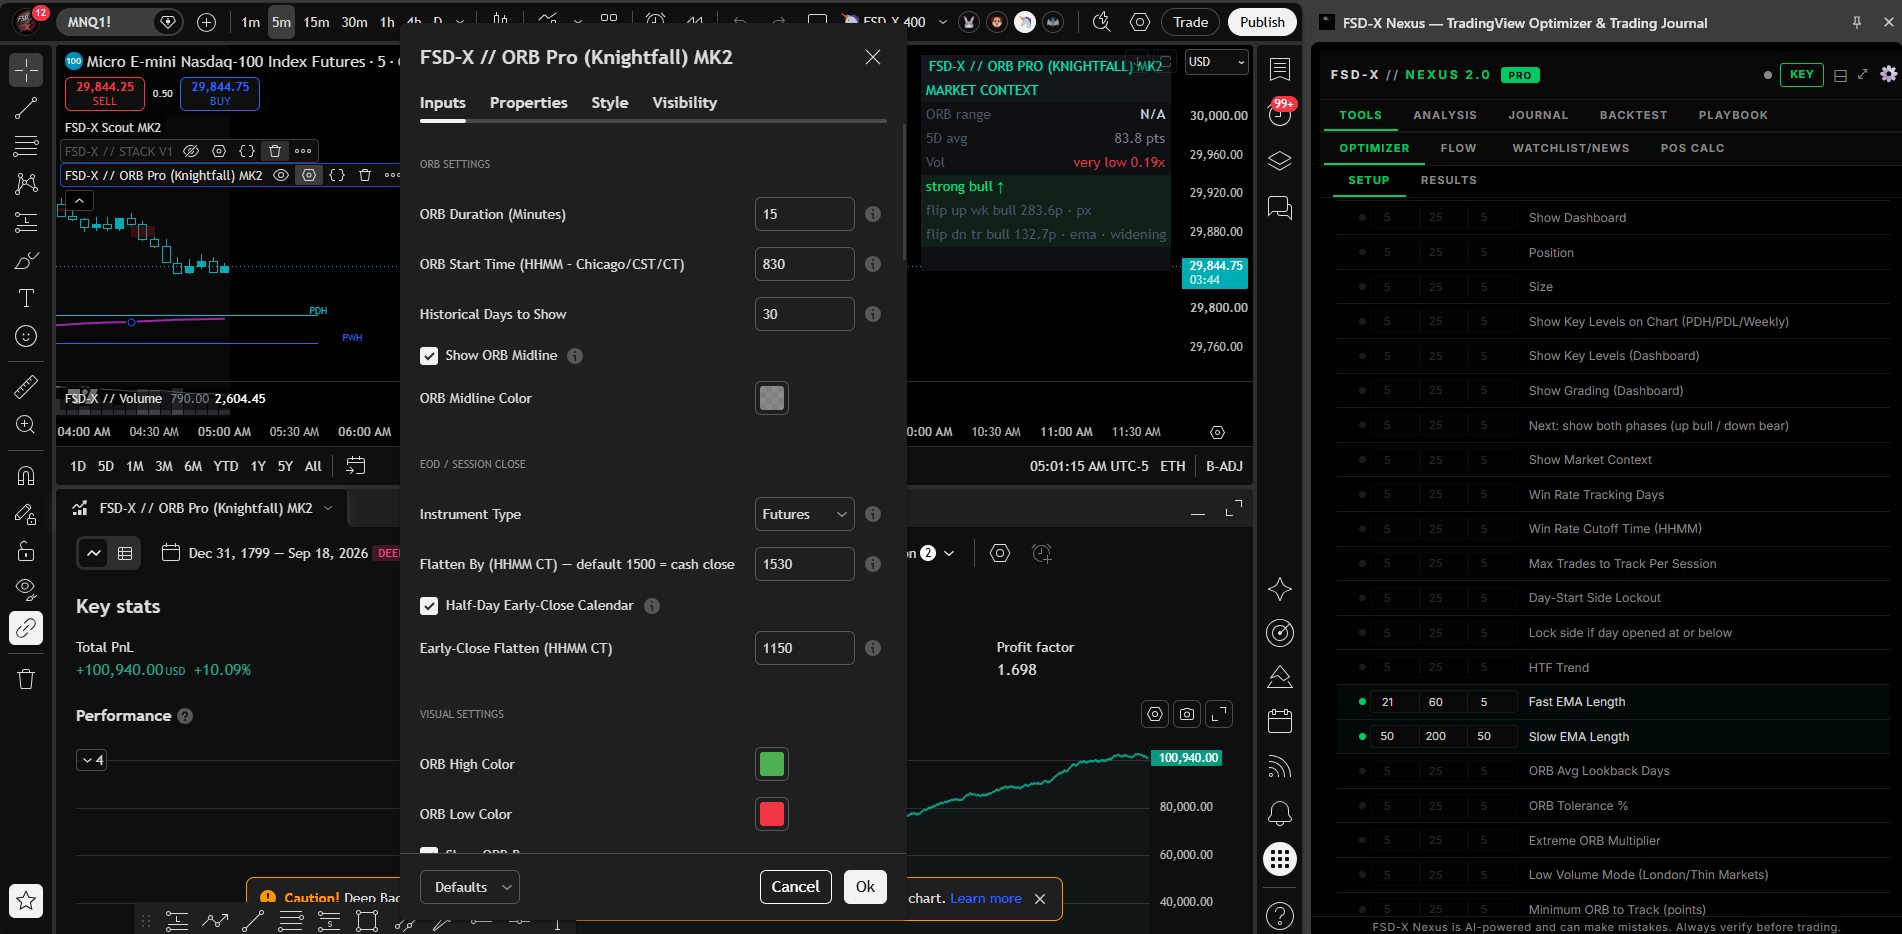
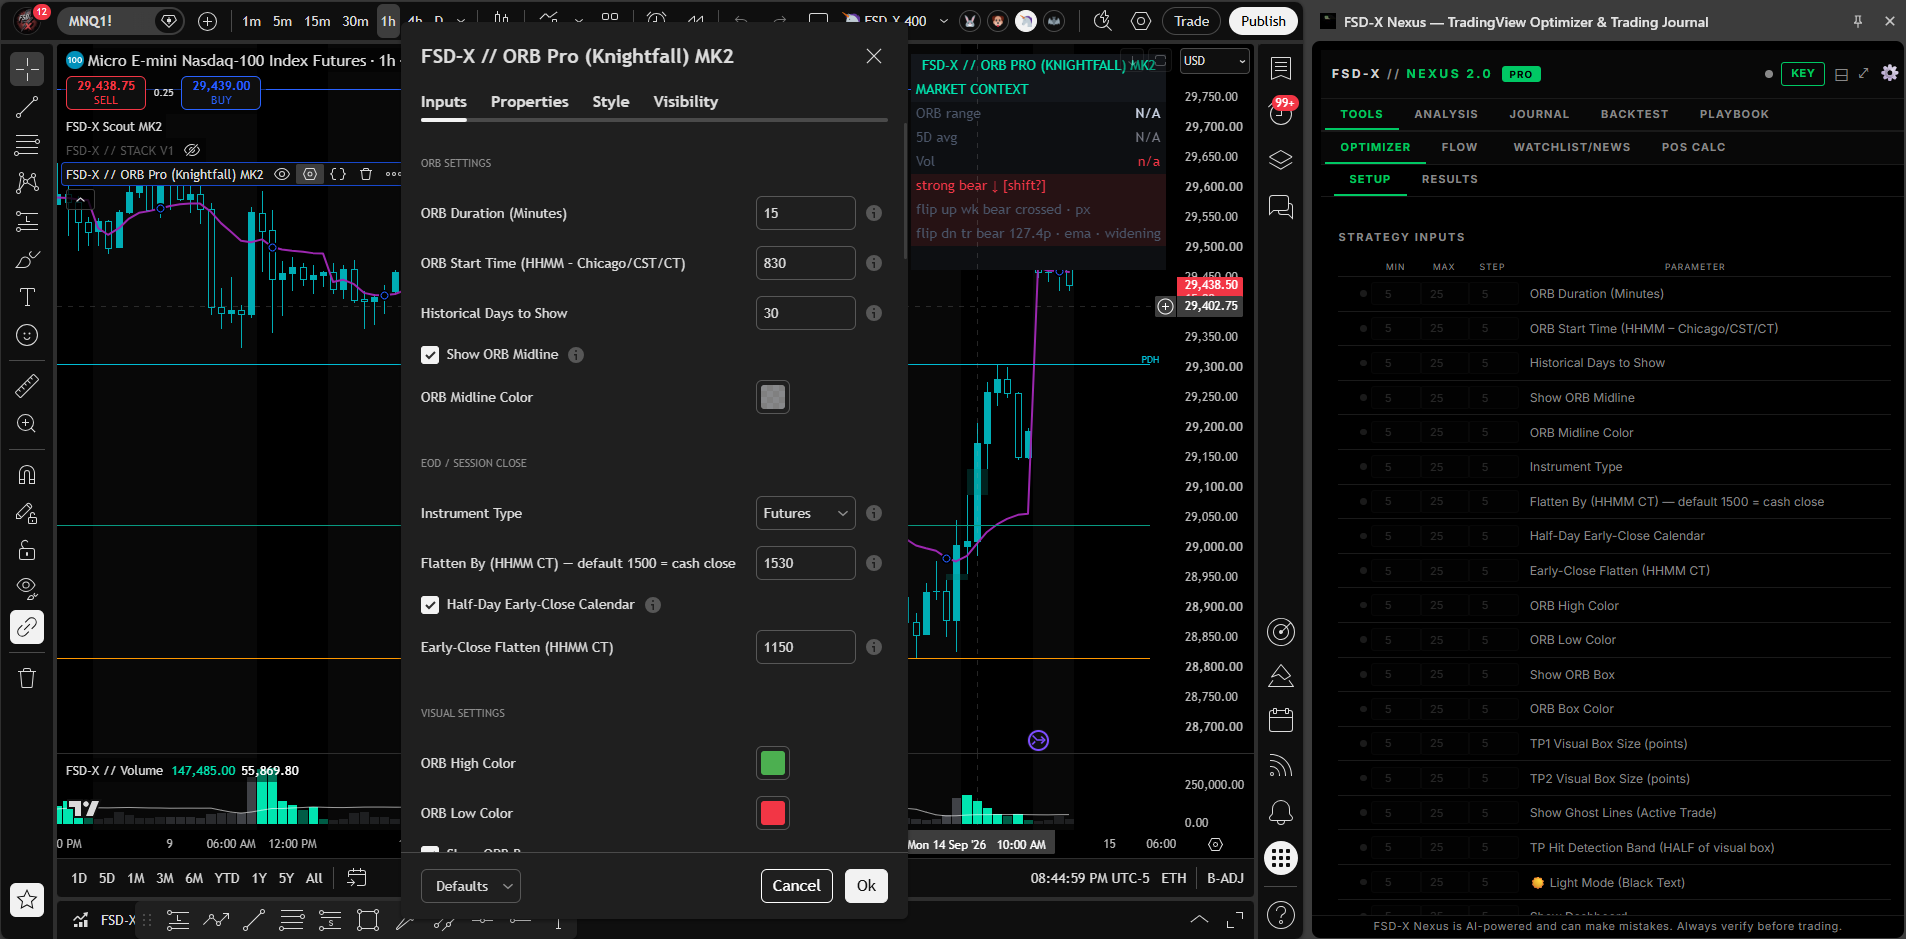
Add files via upload

diff --git a/results.html b/results.html
@@ -391,8 +391,15 @@
         <div class="max-w-5xl mx-auto flex overflow-x-auto no-scrollbar"><button onclick="showResultsTab('overview')" id="rt-btn-overview" class="rt-tab active px-4 py-4 text-[11px] font-bold uppercase tracking-widest border-b-2 border-transparent text-zinc-500 hover:text-zinc-300 transition whitespace-nowrap">Overview</button><button onclick="showResultsTab('seasonal')" id="rt-btn-seasonal" class="rt-tab px-4 py-4 text-[11px] font-bold uppercase tracking-widest border-b-2 border-transparent text-zinc-500 hover:text-zinc-300 transition whitespace-nowrap">Seasonal Profile</button><button onclick="showResultsTab('runs')" id="rt-btn-runs" class="rt-tab px-4 py-4 text-[11px] font-bold uppercase tracking-widest border-b-2 border-transparent text-zinc-500 hover:text-zinc-300 transition whitespace-nowrap">Runs &amp; Drawdowns</button><button onclick="showResultsTab('expect')" id="rt-btn-expect" class="rt-tab px-4 py-4 text-[11px] font-bold uppercase tracking-widest border-b-2 border-transparent text-zinc-500 hover:text-zinc-300 transition whitespace-nowrap">What to Expect</button><button onclick="showResultsTab('eval')" id="rt-btn-eval" class="rt-tab px-4 py-4 text-[11px] font-bold uppercase tracking-widest border-b-2 border-transparent text-zinc-500 hover:text-zinc-300 transition whitespace-nowrap">Eval Profile</button></div>
       </div>
 
-      <!-- ═══ RISK PROFILE SELECTOR — global, drives every tab ═══ -->
-      <div class="sticky top-[117px] md:top-[52px] z-20 border-b border-white/10 bg-zinc-950/95 backdrop-blur px-6 md:px-12">
+      <!-- ═══ RISK PROFILE SELECTOR — global, drives every tab ═══
+           id="risk-profiles" is load-bearing: index.html (twice), affiliates.html
+           and the ⌘K search index have always linked to results.html#risk-profiles,
+           and nothing on this page carried that id, so all four landed at the top
+           of the page instead. The id belongs on THIS element rather than on a
+           panel — the panels are display:none until their tab is picked, and an
+           anchor to a hidden element scrolls nowhere. This bar is always on
+           screen. ═══ -->
+      <div id="risk-profiles" class="scroll-mt-[140px] md:scroll-mt-[72px] sticky top-[117px] md:top-[52px] z-20 border-b border-white/10 bg-zinc-950/95 backdrop-blur px-6 md:px-12">
         <div class="max-w-5xl mx-auto flex items-center gap-2 flex-wrap py-3">
           <span class="text-[9.5px] uppercase tracking-[0.16em] text-zinc-600 font-black mr-1">Risk per trade</span>
           <button class="rp-chip px-3.5 py-1.5 rounded-lg border border-white/10 bg-white/[0.02] text-zinc-400 text-xs font-black transition hover:text-white" data-r="250">$250</button><button class="rp-chip px-3.5 py-1.5 rounded-lg border border-white/10 bg-white/[0.02] text-zinc-400 text-xs font-black transition hover:text-white" data-r="400">$400</button><button class="rp-chip px-3.5 py-1.5 rounded-lg border border-white/10 bg-white/[0.02] text-zinc-400 text-xs font-black transition hover:text-white" data-r="500">$500</button><button class="rp-chip px-3.5 py-1.5 rounded-lg border border-white/10 bg-white/[0.02] text-zinc-400 text-xs font-black transition hover:text-white" data-r="650">$650</button><button class="rp-chip px-3.5 py-1.5 rounded-lg border border-white/10 bg-white/[0.02] text-zinc-400 text-xs font-black transition hover:text-white" data-r="850">$850</button><button class="rp-chip px-3.5 py-1.5 rounded-lg border border-white/10 bg-white/[0.02] text-zinc-400 text-xs font-black transition hover:text-white" data-r="1000">$1000</button>
@@ -1265,6 +1272,18 @@ const D={"250":{"7yr":{"trades":1112,"wins":696,"losses":416,"be":0,"net":68628,
       (i[2]!==undefined?'<span class="text-[10px] text-zinc-600"> · '+i[2]+'</span>':'')+'</div></div>').join('');
   }
 
+  /* Arriving on #risk-profiles means "check your eval pass rate" — that is the
+     wording on every link that points here. The chips are on screen either way,
+     but the numbers those links promise live on the Eval tab, and tabs are class
+     toggles with no hash routing, so open it explicitly. Only this one hash is
+     handled; anything else is left alone. */
+  function applyResultsHash(){
+    if (location.hash === '#risk-profiles' && typeof window.showResultsTab === 'function') {
+      window.showResultsTab('eval');
+    }
+  }
+  window.addEventListener('hashchange', applyResultsHash);
+
   window.showResultsTab=function(t){
     tab=t;
     ['overview','seasonal','runs','expect','eval'].forEach(k=>{
@@ -1481,6 +1500,7 @@ const D={"250":{"7yr":{"trades":1112,"wins":696,"losses":416,"be":0,"net":68628,
     const a=ev.target.closest('.ev-acct');if(a){ acct=a.dataset.a; render(); return; }
     const l=ev.target.closest('.ev-dll'); if(l){ dll=l.dataset.d; render(); return; }
   });
+  applyResultsHash();
   render();
 })();
 </script>
